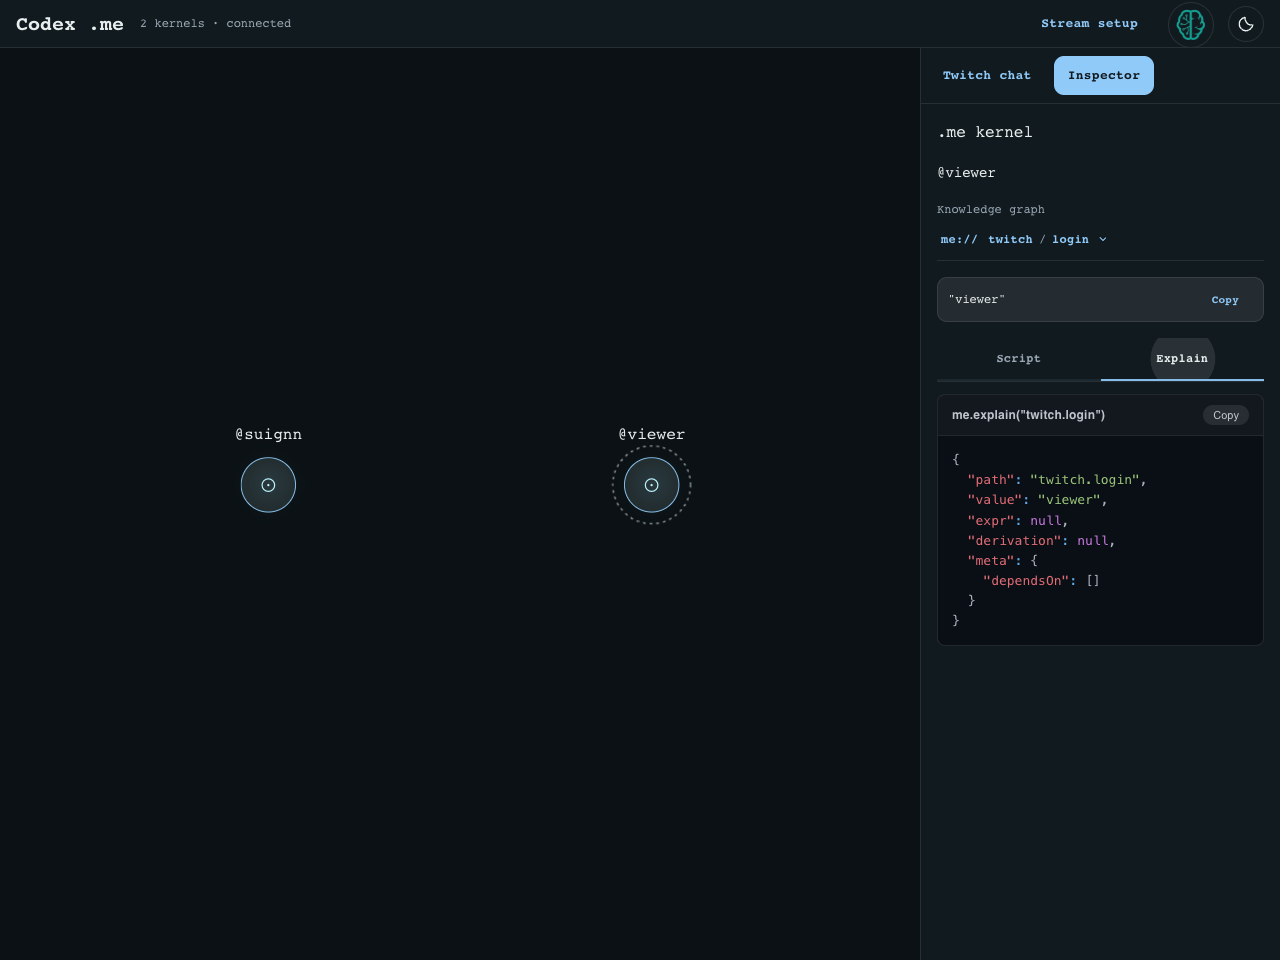
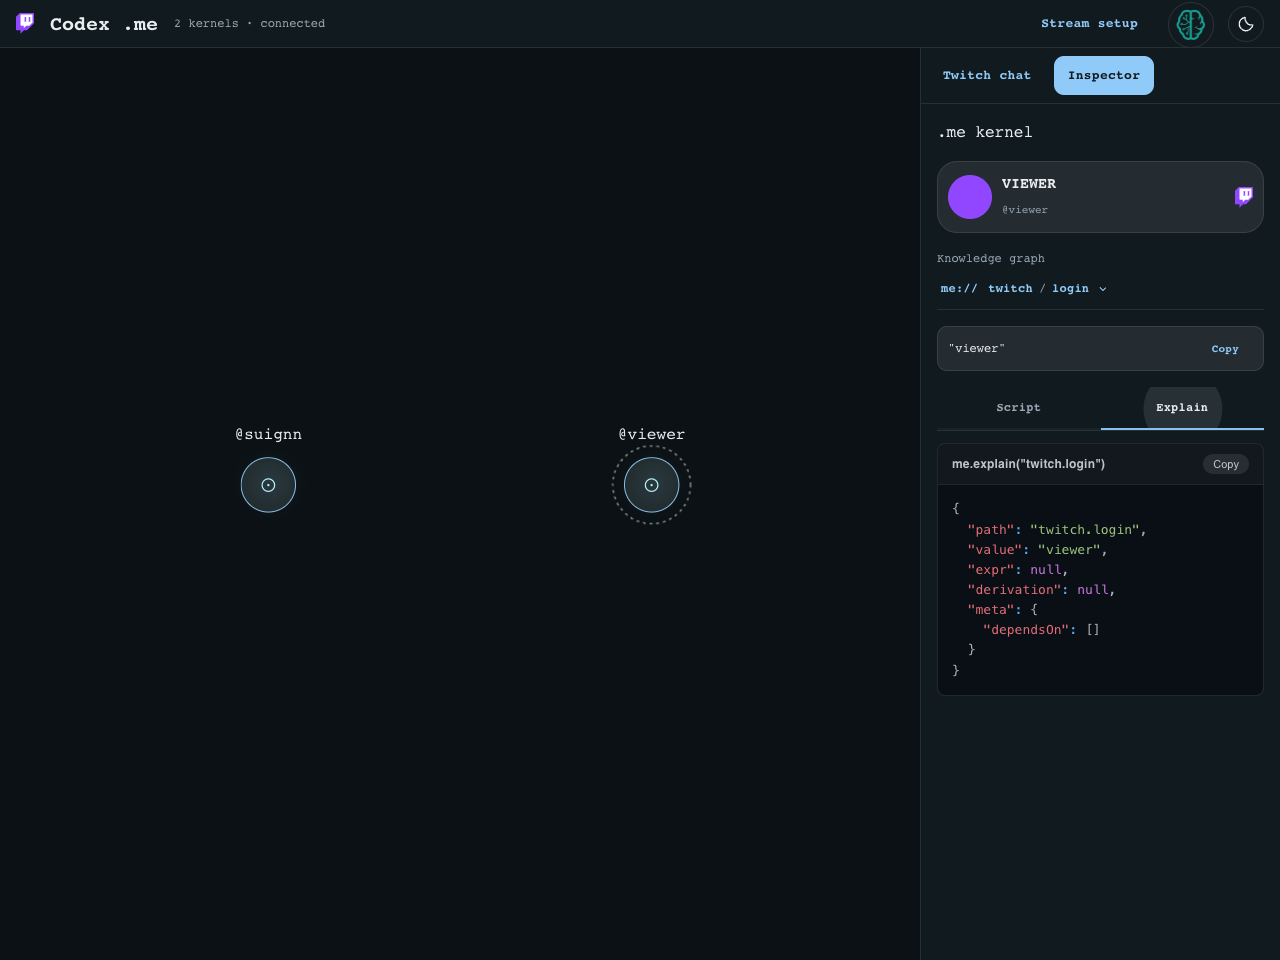
ui: dress kernel inspector with real Twitch profile and branding

diff --git a/overlay/spiders.js b/overlay/spiders.js
@@ -3,12 +3,25 @@ import { KnowledgeGraph } from './kernel-graph.js';
 import { TwitchChat } from './twitch-chat.js';
 import { createThemeControls } from './theme-controls.js';
 const G = window.GUI, h = React.createElement;
-const { Box, Typography, Button } = G.Atoms;
+const { Box, Typography, Button, Avatar } = G.Atoms;
 const { ThemeSelector, ModeToggle } = createThemeControls(G, React);
 const transparent = new URLSearchParams(location.search).get('transparent') === '1';
 if (transparent) document.body.classList.add('transparent');
 else document.documentElement.classList.add('spiders-web');
 const mono = { fontFamily: '"IBM Plex Mono", ui-monospace, monospace' };
+function TwitchProfile({ kernel }) {
+  const values = Object.fromEntries((kernel.graph?.nodes || []).map(node => [node.path, node.value]));
+  const login = values['twitch.login'] || kernel.owner;
+  const name = values['twitch.displayName'] || login;
+  const link = `https://www.twitch.tv/${encodeURIComponent(login)}`;
+  return h(Box, { 'data-twitch-profile': kernel.id, sx: { display: 'flex', alignItems: 'center', gap: 1.25, p: 1.25, mb: 2, border: 1, borderColor: 'divider', borderRadius: 2, bgcolor: 'action.hover' } },
+    h(Avatar, { src: values['twitch.profileImageUrl'] || undefined, alt: `${login}'s Twitch profile`, imgProps: { referrerPolicy: 'no-referrer' }, sx: { width: 44, height: 44, flexShrink: 0, bgcolor: '#9146ff', color: '#fff', ...mono } }, login.slice(0, 1).toUpperCase()),
+    h(Box, { sx: { flex: 1, minWidth: 0 } },
+      h(Typography, { sx: { ...mono, fontSize: 15, fontWeight: 600, overflow: 'hidden', textOverflow: 'ellipsis', whiteSpace: 'nowrap' } }, name),
+      h(Typography, { component: 'a', href: link, target: '_blank', rel: 'noopener noreferrer', sx: { ...mono, fontSize: 11, color: 'text.secondary', textDecoration: 'none', '&:hover': { color: 'primary.main', textDecoration: 'underline' } } }, `@${login}`)),
+    h(Box, { component: 'a', href: link, target: '_blank', rel: 'noopener noreferrer', 'aria-label': `Open ${login} on Twitch`, sx: { display: 'flex', alignItems: 'center', flexShrink: 0 } },
+      h(Box, { component: 'img', src: '/ui/assets/twitch-glitch-purple.svg', alt: 'Twitch', sx: { width: 18, height: 21, display: 'block' } })));
+}
 function Kernel({ kernel, index, count, selected, onSelect, face }) {
   const columns = Math.max(1, Math.ceil(Math.sqrt(count * 16 / 9))), rows = Math.ceil(count / columns);
   const rowCount = Math.min(columns, count - Math.floor(index / columns) * columns);
@@ -55,6 +68,7 @@ function App() {
   if (transparent) return h(Box, { sx: { width: 1920, height: 1080, bgcolor: 'transparent' } }, scene);
   return h(Box, { sx: { width: '100vw', height: '100vh', display: 'grid', gridTemplateRows: '48px 1fr', bgcolor: 'background.default', color: 'text.primary' } },
     h(Box, { component: 'header', sx: { px: 2, display: 'flex', alignItems: 'center', gap: 2, borderBottom: 1, borderColor: 'divider', bgcolor: 'background.paper' } },
+      h(Box, { component: 'img', src: '/ui/assets/twitch-glitch-purple.svg', alt: 'Twitch', sx: { width: 18, height: 21, display: 'block', flexShrink: 0 } }),
       h(Typography, { sx: { ...mono, fontSize: 20, fontWeight: 600 } }, 'Codex .me'),
       h(Typography, { sx: { ...mono, color: 'text.secondary', fontSize: 12 } }, `${kernels.length} kernel${kernels.length === 1 ? '' : 's'} · ${connected ? 'connected' : 'connecting…'}`), h(Box, { sx: { flex: 1 } }),
       h(Button, { component: 'a', href: '/', size: 'small', sx: mono }, 'Stream setup'), h(ThemeSelector, { reservedRight: panel === 'chat' ? 360 : 0 }), h(ModeToggle)),
@@ -67,7 +81,7 @@ function App() {
         h(Box, { sx: { display: panel === 'inspector' ? 'block' : 'none', p: 2, overflowY: 'auto', flex: 1, minHeight: 0 } },
           h(Typography, { sx: { ...mono, fontSize: 16, mb: 2 } }, '.me kernel'),
           current ? h(React.Fragment, null,
-            h(Typography, { sx: { ...mono, fontSize: 14, mb: 2 } }, `@${current.owner}`),
+            h(TwitchProfile, { kernel: current }),
             h(Typography, { sx: { ...mono, fontSize: 12, color: 'text.secondary', mb: 1 } }, 'Knowledge graph'),
             h(KnowledgeGraph, { graph: current.graph, path, selectPath }),
             h(KernelConsole, { kernel: current, path }))

diff --git a/evidence/SESSION.md b/evidence/SESSION.md
@@ -365,3 +365,10 @@ Replaced the default demo's identity namespace and synthetic registration/presen
 Verified GET https://api.twitch.tv/helix/users against https://dev.twitch.tv/docs/api/reference/#get-users on 2026-10-28: accepts user or app access tokens, supports id/login lookups, and exposes public id/login/display_name/profile_image_url fields without requesting email scope. Mapped display_name/profile_image_url to camelCase paths. Profile import is a declaration-time snapshot, not continuous polling or an arbitrary API proxy. Only the four public fields are stored; tokens, email and other private response fields are excluded. The actual 4.2.1 explain output for these stored facts has null expr/derivation and no dependsOn inputs; no dependency edges or source claims were fabricated. Script displays the exact declarations used.
 
 Offline verification passed: real ME reads/traces, four whitelisted fields, rejection of missing/mismatched profiles, concurrent viewer declarations resulting in one API lookup/kernel/reply, persistent inspector tabs, web/OBS synchronization and invalid queries. All 19 server checks and 10 original tests passed. Restarted only the verified codex-me node process on 3017, leaving unrelated services and OBS alone. Live Get Users data for suignn produced ID 1596018746, login suignn, displayName suiGnn and the actual Twitch CDN avatar URL. Real-browser verification showed me://twitch and actual fact output/explanation. Existing tab had the general element inspector intercepting clicks; verified in a clean temporary tab and closed it without changing that preference. Screenshots: evidence/kernels/twitch-paths.png and twitch-explain.png. No real chat messages were sent. Viewer declaration after this change remains tested offline, not claimed as a new real Twitch viewer command.
+
+
+### 2026-10-28 — dress the web inspector with Twitch profile and branding
+
+The owner requested visible Twitch profile imagery and branding. Added a compact profile header using GUI Avatar/Box/Typography: actual twitch.profileImageUrl, displayName, linked @login and the existing official Twitch Glitch asset linking to the account. Added the same small logo to the web topbar. Missing avatars use the native GUI Avatar initial fallback. Preserved theme colors, path navigation, compact copyable output and persistent Script/Explain tabs. Transparent OBS still renders only the scene.
+
+The existing offline kernel integration check passed. Live-browser verification confirmed the actual suignn avatar downloaded at 300x300, the existing logo loaded, and selected displayName output plus Explain remained functional. Preserved current theme and refreshed the existing demo tab; closed the temporary verification tab. Screenshot: evidence/kernels/twitch-profile-branding.png. No server restart, real chat messages or OBS changes.

diff --git a/README.md b/README.md
@@ -49,6 +49,8 @@ Each kernel stores four real public Twitch profile fields under `twitch`: `id`, 
 
 Graph nodes come from public `exportSnapshot().memories`; values are read through `me(path)`. Imported profile values are stored facts, so their actual `me.explain(path)` has no derivation. No rule or dependency edge is fabricated to make this API import look computed. The displayed script contains the exact field declarations used to build that kernel. The local `me://twitch` namespace is a kernel path backed by an API snapshot, not an arbitrary API proxy.
 
+The selected kernel's profile header renders its real Twitch avatar, display name and linked login using GUI atoms; the existing Twitch Glitch asset marks the profile and web topbar. Missing avatars fall back to the login initial. These controls remain outside the transparent OBS scene.
+
 The inspector navigates the graph by path: `me://` lists root branches; opening `twitch` lists `id`, `login`, `displayName` and `profileImageUrl` without repeating the prefix. Breadcrumb segments return to ancestors; a dropdown appears only when that segment has other siblings at its level. The root is a navigation link, not another dropdown. Opening a leaf shows its value and real explanation. Branches are UI groups derived from memory paths, not invented stored facts or a new namespace-read API. Real dependency links remain clickable inside their parent branch. The `me://` breadcrumb is a local display, not a remote-address operation. Below the selected path, the value is always visible as a compact, single-line JSON code display with a Copy button and no separate Output heading. It automatically reads `me(path)` from the existing server kernel. Under it, **Script / Explain** tabs show the construction source or the actual `me.explain(path)` JSON, including expression, derivation and metadata from this.me 4.2.1. The selected tab is preserved while navigating paths or switching kernels. Query results follow the current selection, with obsolete requests cancelled and old-path results hidden. Script is initially selected; arrow keys and Home/End navigate the tabs. Both views use GUI's native syntax highlighting. No construction script is re-executed and no editable code or eval is accepted. The object inspector is separate from GUI's general semantic/interface inspector and browser DOM developer tools. Selecting graph nodes only reads state; it does not execute or rewrite scripts. Face following changes presentation only and does not invent kernel facts or explanation results.
 
 ## Chat, web and OBS
